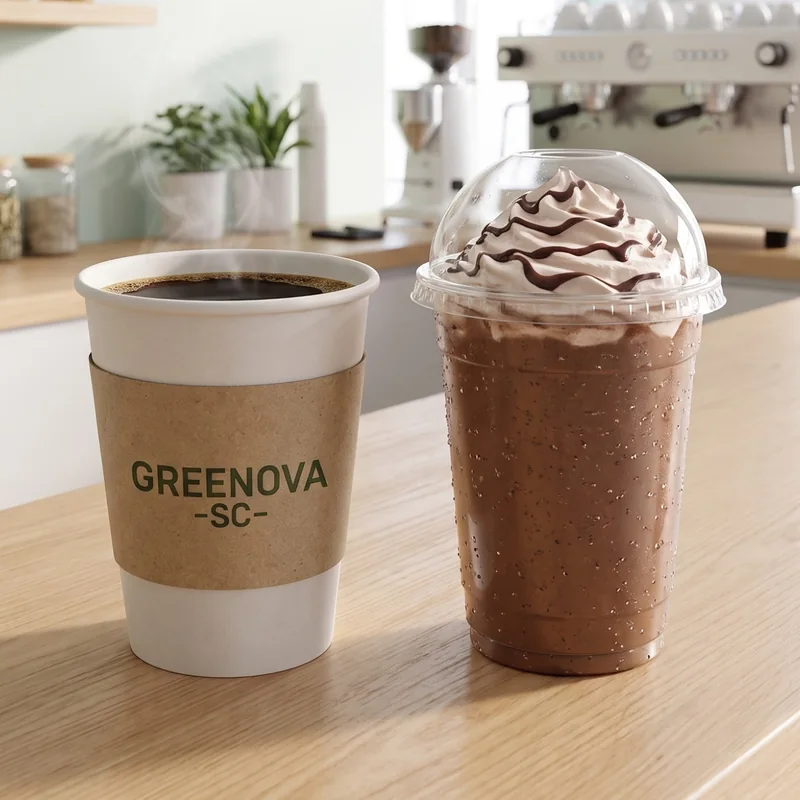
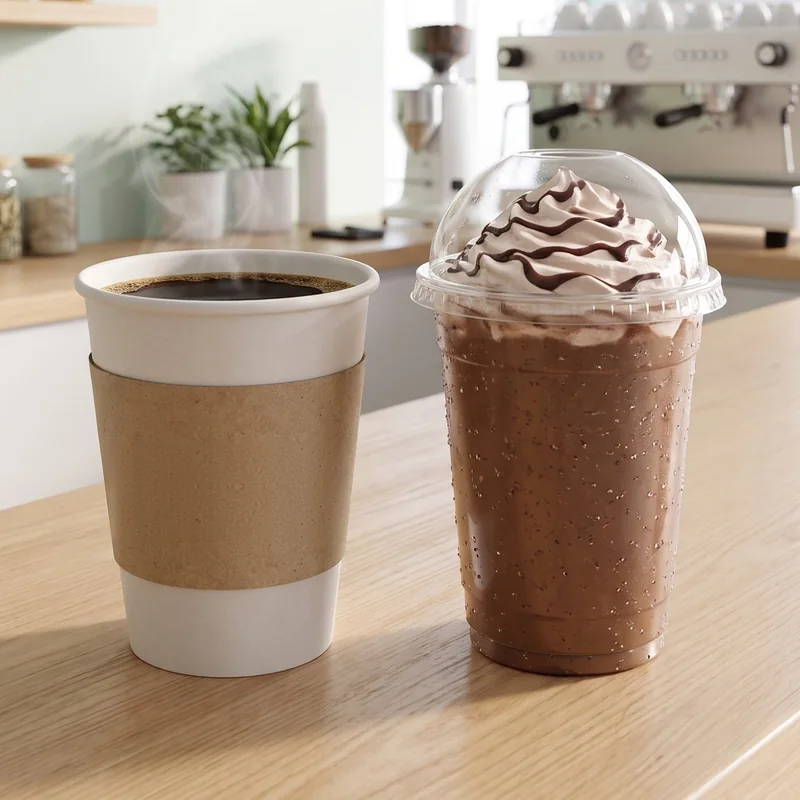
Bebidas con vaso liso, sin GREENOVA SC en la fajilla

Changed region(s): [[0.1562, 0.5625, 0.4062, 0.6562]]

diff --git a/index.html b/index.html
@@ -161,7 +161,7 @@
       <div class="cats cats--5" role="list">
         <a class="cat rv" data-d="0" role="listitem" href="tienda.html">
           <span class="cat__barra">Bebidas <svg class="ico" aria-hidden="true"><use href="#i-arrow-right"></use></svg></span>
-          <span class="cat__foto"><img src="assets/prod/fajilla-kraft.webp?v=20260928c" alt="Vaso de papel con fajilla GreeNova SC." loading="lazy" decoding="async" width="900" height="900"><img class="cat__amb" src="assets/landing/cafe-bebidas.webp?v=20261001b" alt="" loading="lazy" decoding="async" width="800" height="800"></span>
+          <span class="cat__foto"><img src="assets/prod/vaso-papel-par.webp?v=20260928c" alt="Vaso de papel blanco." loading="lazy" decoding="async" width="900" height="900"><img class="cat__amb" src="assets/landing/cafe-bebidas.webp?v=20261002a" alt="" loading="lazy" decoding="async" width="800" height="800"></span>
           <span class="cat__txt"><small>Vasos de papel, PET y PP, con sus tapas</small><b>Comprar en línea</b></span>
         </a>
         <div class="cat cat--info rv" data-d="1" role="listitem">
@@ -260,7 +260,7 @@
             <li class="redes__foto"><img src="assets/prod/portavaso-charola-4.webp?v=20260928d" alt="Portavasos de pulpa para 4 vasos." loading="lazy" decoding="async" width="640" height="640"></li>
             <li class="redes__foto"><img src="assets/prod/tapa-fria-domo.webp?v=20260928d" alt="Tapas PET domo." loading="lazy" decoding="async" width="640" height="640"></li>
             <li class="redes__foto"><img src="assets/prod/cono-crepa.webp?v=20260928d" alt="Cono para crepa." loading="lazy" decoding="async" width="640" height="640"></li>
-            <li class="redes__foto"><img src="assets/prod/vaso-papel-par.webp?v=20260928d" alt="Vaso de papel blanco." loading="lazy" decoding="async" width="640" height="640"></li>
+            <li class="redes__foto"><img src="assets/prod/vaso-papel-doble-pared-generico.webp?v=20260928d" alt="Vaso de papel doble pared genérico." loading="lazy" decoding="async" width="640" height="640"></li>
             <li class="redes__foto"><img src="assets/prod/tapa-negra-domo.webp?v=20260928d" alt="Tapa negra para vaso de papel." loading="lazy" decoding="async" width="640" height="640"></li>
         </ul>
         <ul class="redes__fila" aria-hidden="true">
@@ -274,7 +274,7 @@
             <li class="redes__foto"><img src="assets/prod/portavaso-charola-4.webp?v=20260928d" alt="" loading="lazy" decoding="async" width="640" height="640"></li>
             <li class="redes__foto"><img src="assets/prod/tapa-fria-domo.webp?v=20260928d" alt="" loading="lazy" decoding="async" width="640" height="640"></li>
             <li class="redes__foto"><img src="assets/prod/cono-crepa.webp?v=20260928d" alt="" loading="lazy" decoding="async" width="640" height="640"></li>
-            <li class="redes__foto"><img src="assets/prod/vaso-papel-par.webp?v=20260928d" alt="" loading="lazy" decoding="async" width="640" height="640"></li>
+            <li class="redes__foto"><img src="assets/prod/vaso-papel-doble-pared-generico.webp?v=20260928d" alt="" loading="lazy" decoding="async" width="640" height="640"></li>
             <li class="redes__foto"><img src="assets/prod/tapa-negra-domo.webp?v=20260928d" alt="" loading="lazy" decoding="async" width="640" height="640"></li>
         </ul>
       </div>

diff --git a/FEEDBACK.md b/FEEDBACK.md
@@ -150,3 +150,4 @@ consulta con Gabriel antes de tocar el código. Estado: ✅ hecho · ⏳ en curs
 - Gabriel (2026-10-01): mientras el Excel diga que esas piezas existen (cualquier hoja), las 5 tarjetas se quedan como están. La foto de Gemini de la bolsa kraft (con "Eat Better") en una panadería ya aparece en la tarjeta de Bolsas (`assets/landing/cafe-bolsas.webp`).
 - Gabriel no quiere archivos TXT: los prompts se le escriben en el chat.
 - (2026-10-02) Ya están las 5 fotos de cafetería de las tarjetas: contenedor con helado, ensaladera con ensalada y smoothie en vaso PET con domo (`cafe-contenedores`, `cafe-bowls`, `cafe-complementos`).
+- (2026-10-02) Bebidas sin "GREENOVA -SC-": la tarjeta usa el vaso de papel blanco liso. En la foto de cafetería se borró el texto de la fajilla, que quedó kraft lisa. En el carrusel, el vaso blanco se cambió por el doble pared genérico para no repetir. Gabriel pasó el `Catálogo_Greenovasc_2026-2.pdf` (págs. 12-24: vasos, tapas y accesorios).
